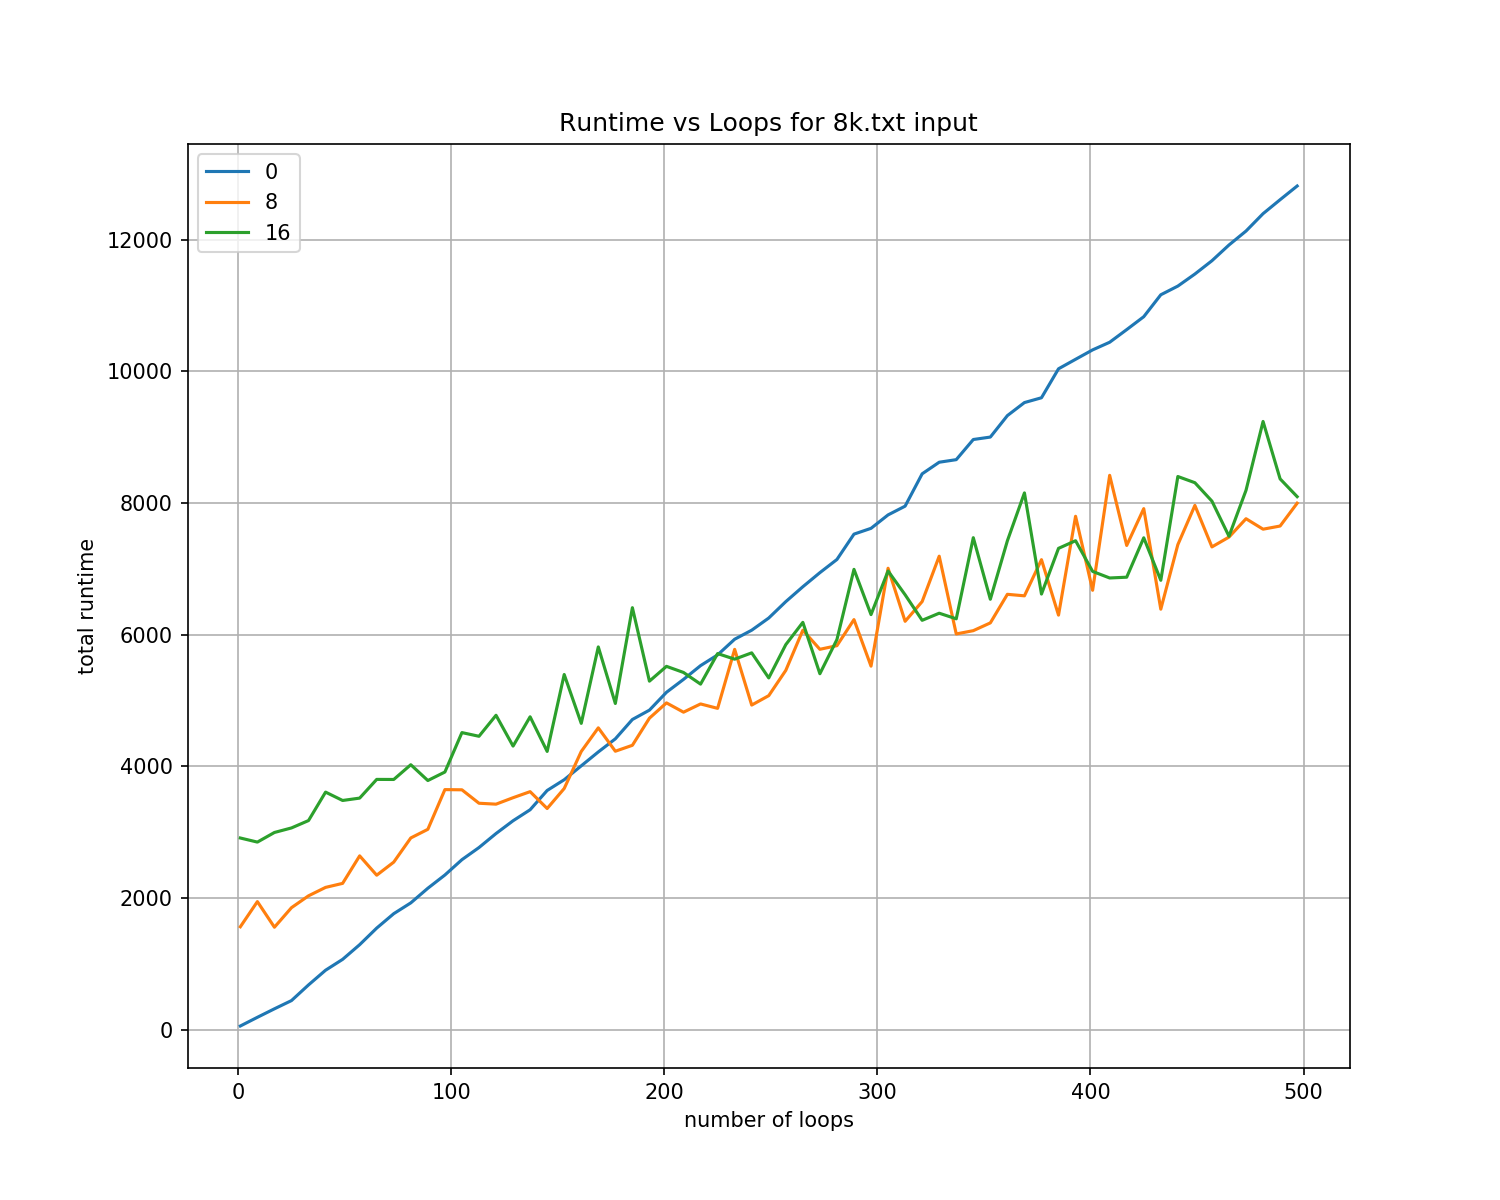
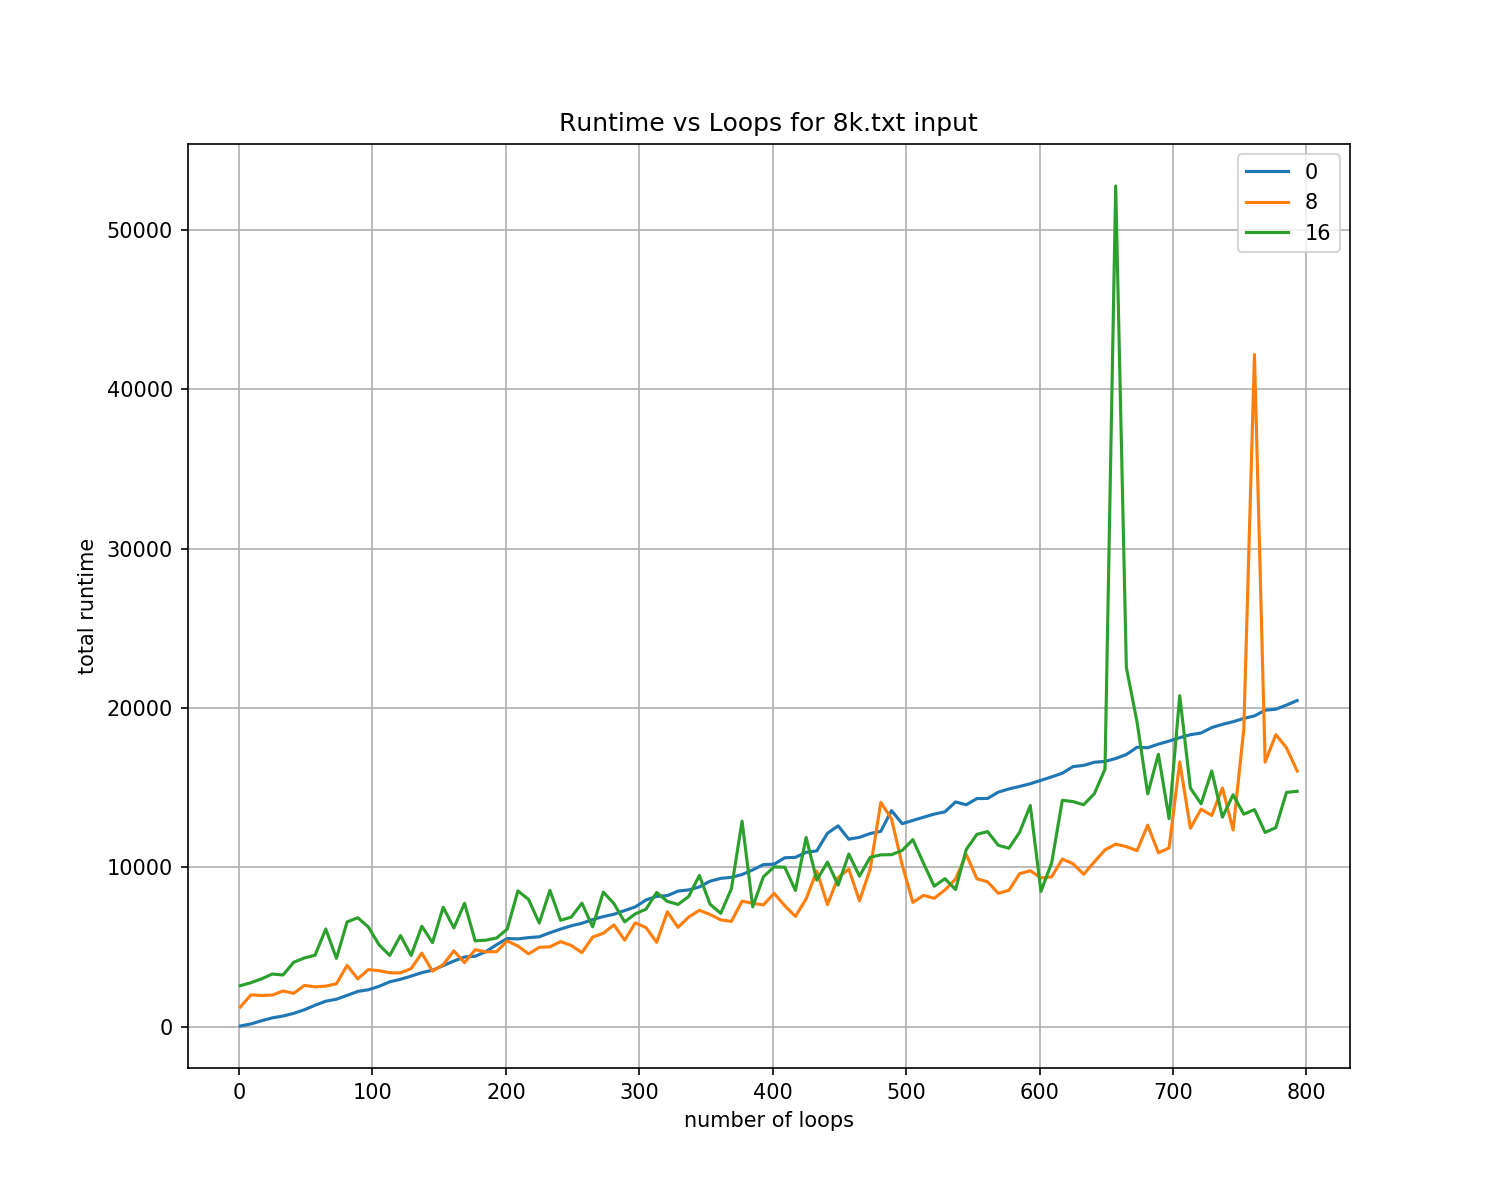
working spinbarrier and graphs

diff --git a/check_values-q3.py b/check_values-q3.py
@@ -1,0 +1,62 @@
+#!/usr/bin/env python3
+import os
+import os.path
+from subprocess import check_output
+import re
+from time import sleep
+import filecmp
+
+THREADS = [1,2,3,4,5,8,9,15,32,69,101,155,301]
+LOOPS = [1,100,1000,10000,100000]
+INPUTS = ["1k.txt","8k.txt", "16k.txt"]
+
+csvs_threads = []
+csvs_sequential = []
+# generate sequential results files
+for inp in INPUTS:
+    for loop in LOOPS:
+        output_file_name = "seq_%s_%d_loops.txt" %(inp,loop)
+        if not os.path.isfile("results/%s" % output_file_name):
+            cmd = "./bin/prefix_scan -o results/%s -n %d -i tests/%s -l %d" % (output_file_name,0,inp,loop)
+            out = check_output(cmd, shell=True).decode("ascii")
+# generate threaded results files 
+for inp in INPUTS:
+    for loop in LOOPS:
+        for thr in THREADS:
+            output_file_name = "thr_%d_%s_%d_loops.txt" % (thr,inp,loop)
+            if not os.path.isfile("results/%s" % output_file_name):
+                cmd = "./bin/prefix_scan -o results/%s -n %d -i tests/%s -l %d -s" % (output_file_name,thr,inp,loop)
+                out = check_output(cmd, shell=True).decode("ascii")
+# check results
+for inp in INPUTS:
+    for loop in LOOPS:
+        seq_file_name = "results/seq_%s_%d_loops.txt" %(inp,loop)
+        for thr in THREADS:
+            thr_file_name = "results/thr_%d_%s_%d_loops.txt" % (thr,inp,loop)
+            if os.path.isfile(seq_file_name) and os.path.isfile(thr_file_name):
+                if not filecmp.cmp(seq_file_name,thr_file_name,shallow=False):
+                    print("!!threaded out not equal to sequential out for -n %d -i %s -l %d!!"%(thr,inp,loop))
+                else:
+                    print("thr == seq for -n %d -i %s -l %d!"%(thr,inp,loop))
+            else:
+                print("a file does not exist for -n %d -i %s -l %d!"%(thr,inp,loop))
+            
+
+
+'''
+for inp in INPUTS:
+    for loop in LOOPS:
+        csv = []
+        #csv = ["{}/{}".format(inp, loop)]
+        for thr in THREADS:
+            cmd = "./bin/prefix_scan -o temp.txt -n {} -i tests/{} -l {}".format(
+                thr, inp, loop)
+            out = check_output(cmd, shell=True).decode("ascii")
+            m = re.search("time: (.*)", out)
+            if m is not None:
+                time = m.group(1)
+                csv.append(time)
+
+        csvs.append(csv)
+        sleep(0.5)
+'''

diff --git a/src/spin_barrier.cpp b/src/spin_barrier.cpp
@@ -20,7 +20,7 @@ class spin_barrier {
     public: 
         spin_barrier(int count);
         ~spin_barrier();
-        int barrier_wait();
+        int barrier_wait(int t_id);
         void init_dfs(node *cur);
         void free_dfs(node *cur);
 };
@@ -32,17 +32,17 @@ class spin_barrier {
  ************************/
 void spin_barrier::init_dfs(node *cur) {
     auto val = cur->val;
-    if (2*val + 1 < thread_count) {
+    if (2*(val+1) + 1 < thread_count) {
         cur->left = (node*) malloc(sizeof(node));
-        cur->left->val = 2*val;
+        cur->left->val = 2*(val+1)-1;
         cur->right = (node*)malloc(sizeof(node));
-        cur->right->val = 2*val+1;
+        cur->right->val = 2*(val+1);
         init_dfs(cur->left);
         init_dfs(cur->right);
     }
     else if(2*val < thread_count) {
         cur->left = (node*)malloc(sizeof(node));
-        cur->left->val = 2*val;
+        cur->left->val = 2*(val+1)-1;
         cur->right = NULL;
         init_dfs(cur->left);
     }
@@ -93,6 +93,42 @@ spin_barrier::~spin_barrier() {
     free_dfs(thread_tree);
 }
 
-int spin_barrier::barrier_wait() {
+int spin_barrier::barrier_wait(int t_id) {
+    if(t_id == 0) {
+        if(2<thread_count) {
+            sem_wait(&arrive[1]);
+            sem_wait(&arrive[2]);
+            sem_post(&go[1]);
+            sem_post(&go[2]);
+        }
+        else if(1<thread_count) {
+            sem_wait(&arrive[1]);
+            sem_post(&go[1]);
+        }
+    }
+    else if((t_id+1) <= (thread_count)/2) {
+        if(2*(t_id+1)<thread_count) {
+            sem_wait(&arrive[2*(t_id+1)-1]);
+            sem_wait(&arrive[2*(t_id+1)]);
+            sem_post(&arrive[t_id]);
+            sem_wait(&go[t_id]);
+            sem_post(&go[2*(t_id+1)-1]);
+            sem_post(&go[2*(t_id+1)]);
+        }
+        else if(2*(t_id+1)-1<thread_count) {
+            sem_wait(&arrive[2*(t_id+1)-1]);
+            sem_post(&arrive[t_id]);
+            sem_wait(&go[t_id]);
+            sem_post(&go[2*(t_id+1)-1]);
+        }
+        else {
+            sem_post(&arrive[t_id]);
+            sem_wait(&go[t_id]);
+        }
+    }
+    else {
+        sem_post(&arrive[t_id]);
+        sem_wait(&go[t_id]);
+    }
     return 0;
 }

diff --git a/src/prefix_sum.cpp b/src/prefix_sum.cpp
@@ -8,6 +8,8 @@ void* compute_prefix_sum(void *a)
 {
     prefix_sum_args_t *args = (prefix_sum_args_t *)a;
     
+    using namespace std::this_thread; // sleep_for, sleep_until
+    using namespace std::chrono; // nanoseconds, system_clock, seconds
 
     /************************
      * Your code here...    *
@@ -24,12 +26,17 @@ void* compute_prefix_sum(void *a)
 
     for (auto stride = 2; stride <= args->pad_length; stride *= 2) {
         auto index = (t_id + 1) * stride - 1;
+        /*
+        if(index <=rand()) {
+            sleep_for(nanoseconds(rand()*rand()));
+        }
+        */
         while(index < pad_length) {
             args->output_vals[index] = scan_operator(args->output_vals[index],args->output_vals[index-stride/2],n_loops);
             index += stride*n_threads;
         }
         if(spin) {
-            args->spinbar->barrier_wait();
+            args->spinbar->barrier_wait(t_id);
         }
         else {
             pthread_barrier_wait((pthread_barrier_t *)args->barrier);
@@ -41,12 +48,17 @@ void* compute_prefix_sum(void *a)
     
     for (int stride = pad_length / 2; stride >1; stride /= 2) {
         auto index = (t_id + 1) * stride - 1;
+        /*
+        if(index >rand()) {
+            sleep_for(nanoseconds(rand()*rand()));
+        }
+        */
         while(index+stride/2 < pad_length) {
             args->output_vals[index+stride/2] = scan_operator(args->output_vals[index],args->output_vals[index+stride/2],n_loops);
             index += stride*n_threads;
         }
         if(spin) {
-            args->spinbar->barrier_wait();
+            args->spinbar->barrier_wait(t_id);
         }
         else {
             pthread_barrier_wait((pthread_barrier_t *)args->barrier);

diff --git a/run_tests-q3.py b/run_tests-q3.py
@@ -20,7 +20,7 @@ for thr in THREADS:
     csv = []
     #csv = ["{}/{}".format(inp, loop)]
     for loop in LOOPS:
-        cmd = "./bin/prefix_scan -o temp.txt -n {} -i tests/{} -l {}".format(thr, inp, loop)
+        cmd = "./bin/prefix_scan -o temp.txt -n {} -i tests/{} -l {} -s".format(thr, inp, loop)
         out = check_output(cmd, shell=True).decode("ascii")
         m = re.search("time: (.*)", out)
         if m is not None:
@@ -54,13 +54,13 @@ for idx,csv in enumerate(csvs):
 plt.xlabel('number of loops')
 plt.ylabel('total runtime')
 ax.grid()
-plt.title("Runtime vs Loops for %s input" % inp)
+plt.title("Runtime vs Loops for %s input with custom barrier" % inp)
 #plt.yticks(range(0,6000000,500000))
 #plt.yticks(yticks)
 #plt.xticks([0,4,8,12,16,20,24,28,32])
 
 plt.legend()
-out_png = 'graph_part2.png'
+out_png = 'graph_part3.png'
 plt.savefig(out_png, dpi=150)
 plt.show()
 plt.close()

diff --git a/src/spin_barrier.h b/src/spin_barrier.h
@@ -26,7 +26,7 @@ class spin_barrier {
     public: 
         spin_barrier(int count);
         ~spin_barrier();
-        int barrier_wait();
+        int barrier_wait(int t_id);
         void init_dfs(struct node *cur);
         void free_dfs(struct node *cur);
 };

diff --git a/src/prefix_sum.h b/src/prefix_sum.h
@@ -4,5 +4,6 @@
 #include <pthread.h>
 #include <spin_barrier.h>
 #include <iostream>
+#include <chrono>
 
 void* compute_prefix_sum(void* a);
